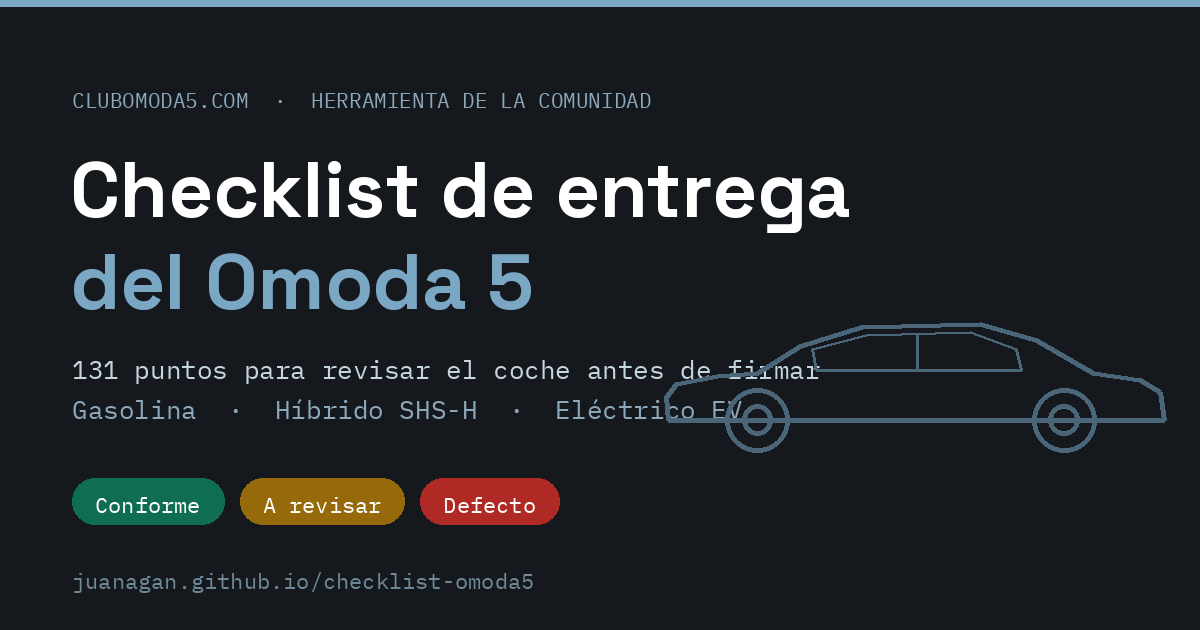
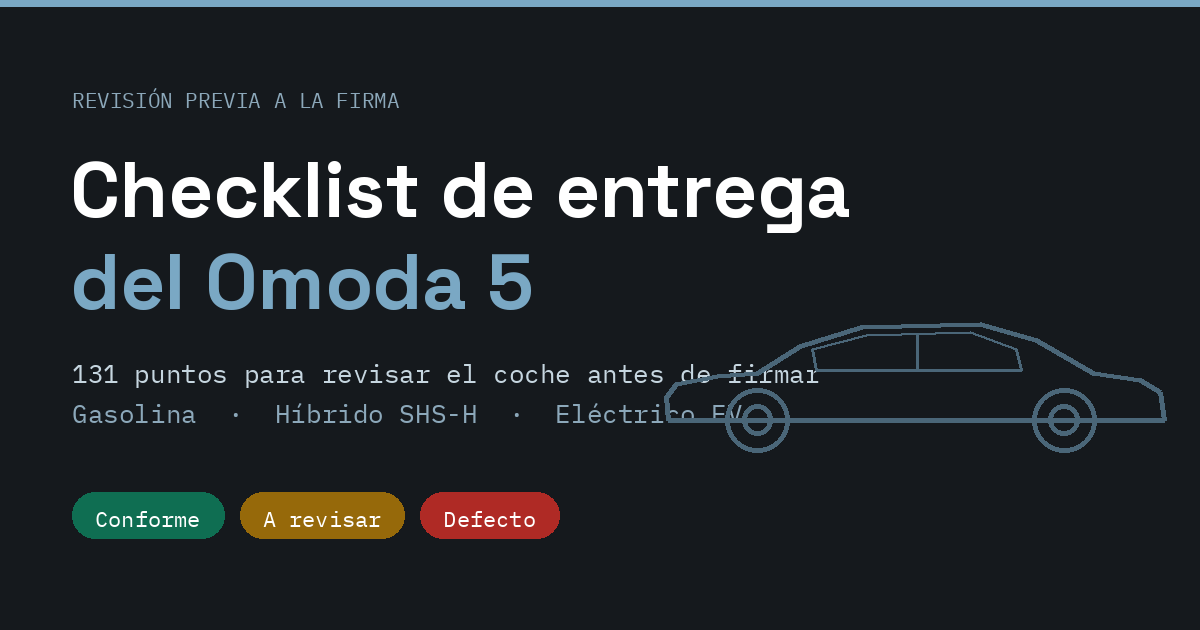
Add files via upload

diff --git a/index.html b/index.html
@@ -276,7 +276,7 @@
   .hero{margin:0;padding:0;min-width:0}
   .hero img{display:none;width:100%;height:auto}
   .hero.haspic img{display:block}
-  .hero.haspic .heroart{display:none}
+  .hero.haspic .heroart,.hero.haspic figcaption{display:none}
   .heroart{width:100%;height:auto;display:block}
   .heroart .cl{fill:none;stroke:#5E7C90;stroke-width:3;stroke-linejoin:round;stroke-linecap:round}
   .heroart .cg{fill:none;stroke:#41596A;stroke-width:2.4;stroke-linejoin:round}
@@ -376,7 +376,7 @@
   <div class="mh-inner">
     <div class="brandrow">
       <span class="mark" aria-hidden="true"><svg viewBox="0 0 32 32"><rect width="32" height="32" rx="7" fill="#7AA8C4"/><path d="M9 16.6l4.6 4.6L23 11" fill="none" stroke="#15191D" stroke-width="3.4" stroke-linecap="round" stroke-linejoin="round"/></svg></span>
-      <span class="brandtxt">Herramienta de la comunidad de<br><b>clubomoda5.com</b> · versión 2.3</span>
+      <span class="brandtxt">Lista de comprobación para el día<br>de la entrega<b> · versión 2.4</b></span>
       <span class="oem"><img src="assets/omoda-wordmark.svg" alt="Omoda" onerror="this.closest('.oem').remove()"><em>Sitio no oficial</em></span>
     </div>
     <div class="mh-grid">
@@ -384,10 +384,11 @@
         <p class="eyebrow">Revisión previa a la firma</p>
         <h1>Checklist de entrega<br>del Omoda 5</h1>
         <p class="spec">
-          <b>131 puntos</b> para revisar el coche antes de firmar<br>
-          Gasolina · Híbrido SHS-H · Eléctrico EV, en cualquier acabado<br>
-          A partir de casos reales publicados por propietarios en el foro
-        </p>
+      <span><b>131</b> puntos</span>
+      <span>Gasolina</span>
+      <span>Híbrido SHS-H</span>
+      <span>Eléctrico EV</span>
+    </p>
       </div>
       <figure class="hero" id="hero">
         <img src="assets/omoda5.png" alt="Omoda 5 visto de tres cuartos" onerror="this.remove()" onload="document.getElementById('hero').classList.add('haspic')">

diff --git a/sw.js b/sw.js
@@ -2,7 +2,7 @@
    Estrategia: red primero, caché como respaldo. Así siempre ves la última
    versión si hay cobertura, y sigue funcionando en el sótano del concesionario.
    Al publicar cambios, sube el número de versión de esta línea. */
-const CACHE = 'checklist-omoda5-v2.3.0';
+const CACHE = 'checklist-omoda5-v2.4.0';
 
 /* Tienen que existir sí o sí: si uno falla, no se instala la caché. */
 const CORE = [
